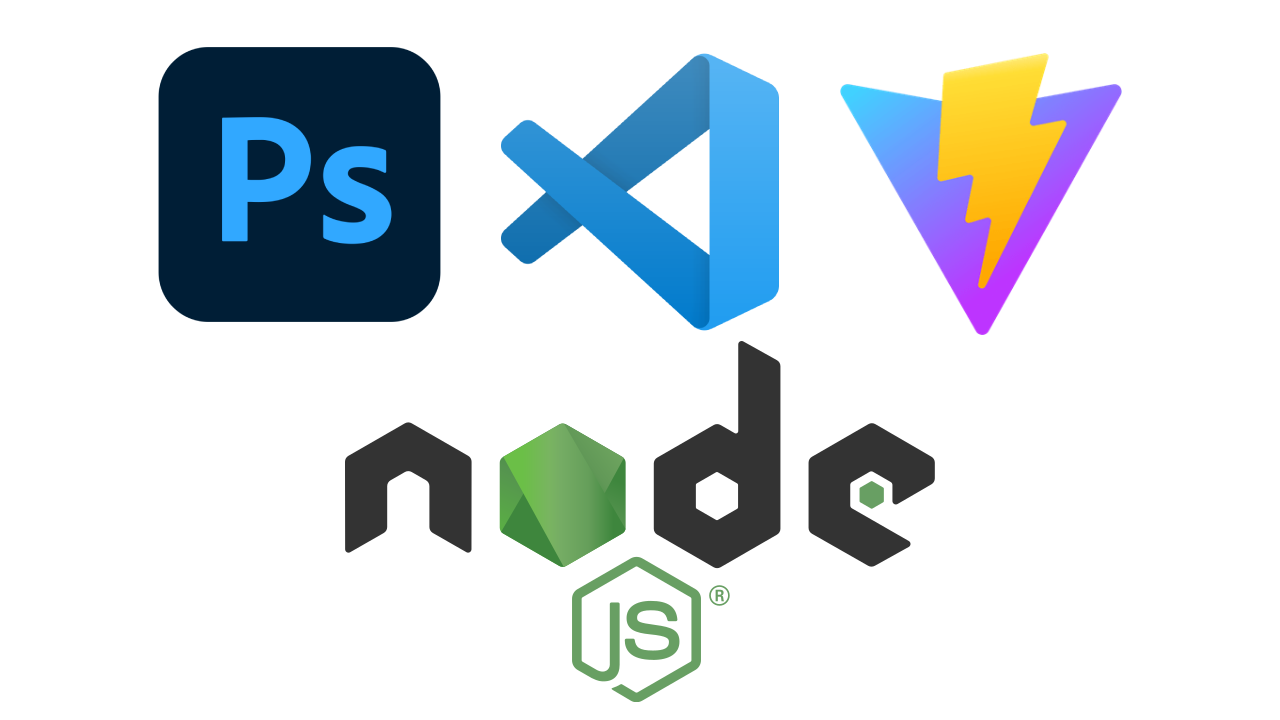
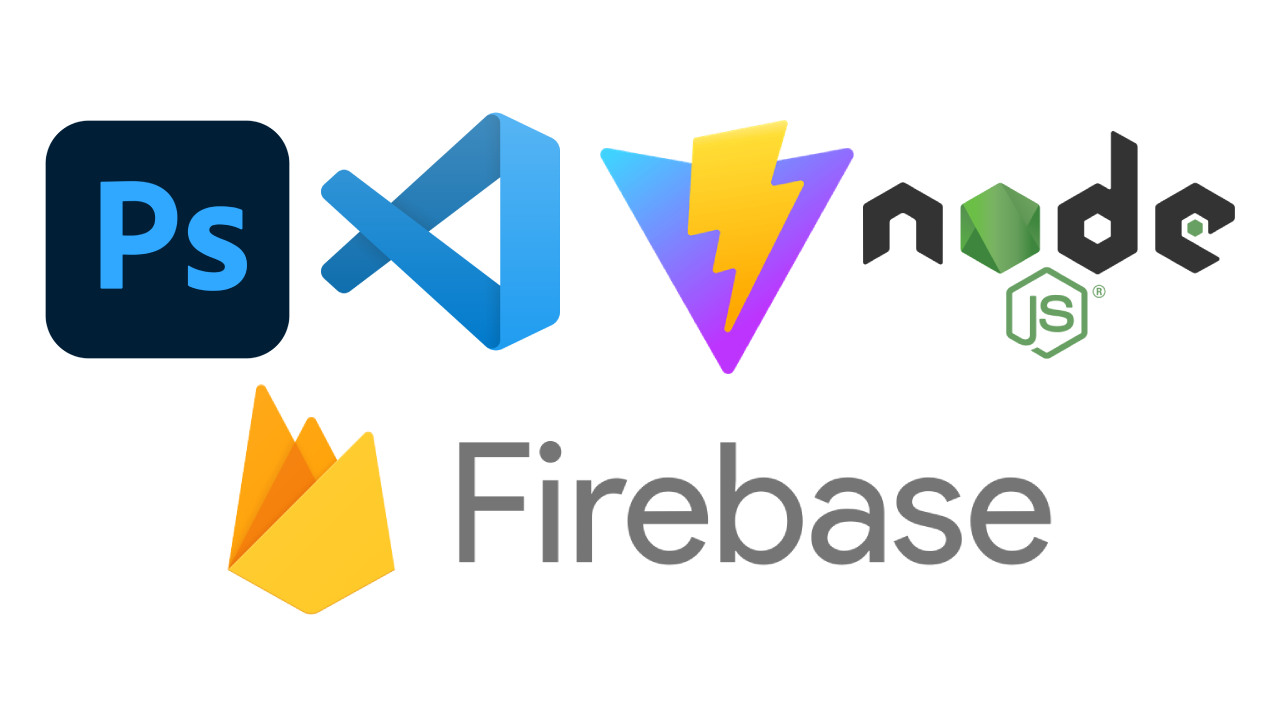
Ultimate Readme

diff --git a/README.md b/README.md
@@ -3,9 +3,9 @@
 
 <img src="./src/assets/img/logo.png" alt="Logo Vynil Store" />
 
- Ejemplo de sitio web E-Commerce de merchandising de música (CDs, Vinilos, etc.). Desarrollado con React.js, JSX, HTML5, CSS3, Node.js, Chakra UI, Tailwind CSS y GIT. Photoshop CS6 para diseños y Vite JS para ejecución.
+ Ejemplo de sitio web E-Commerce de merchandising de música (CDs, Vinilos, etc.). Desarrollado con React.js, JSX, HTML5, CSS3, Node.js, Chakra UI, Tailwind CSS, GIT y la base de datos de Firebase de Google. Photoshop CS6 para diseños y Vite JS para ejecución.
 
-Example of an E-Commerce website for music merchandising (CDs, Vinyl, etc.). Developed with React.js, JSX, HTML5, CSS3, Node.js, Chakra UI, Tailwind CSS and GIT. Photoshop CS6 for designs and Vite JS for execution.
+Example of an E-Commerce website for music merchandising (CDs, Vinyl, etc.). Developed with React.js, JSX, HTML5, CSS3, Node.js, Chakra UI, Tailwind CSS, GIT and Google Firebase database. Photoshop CS6 for designs and Vite JS for execution.
 
 <h3><bold><em>GIF Presentación / GIF Presentation</h3></bold></em>
 
